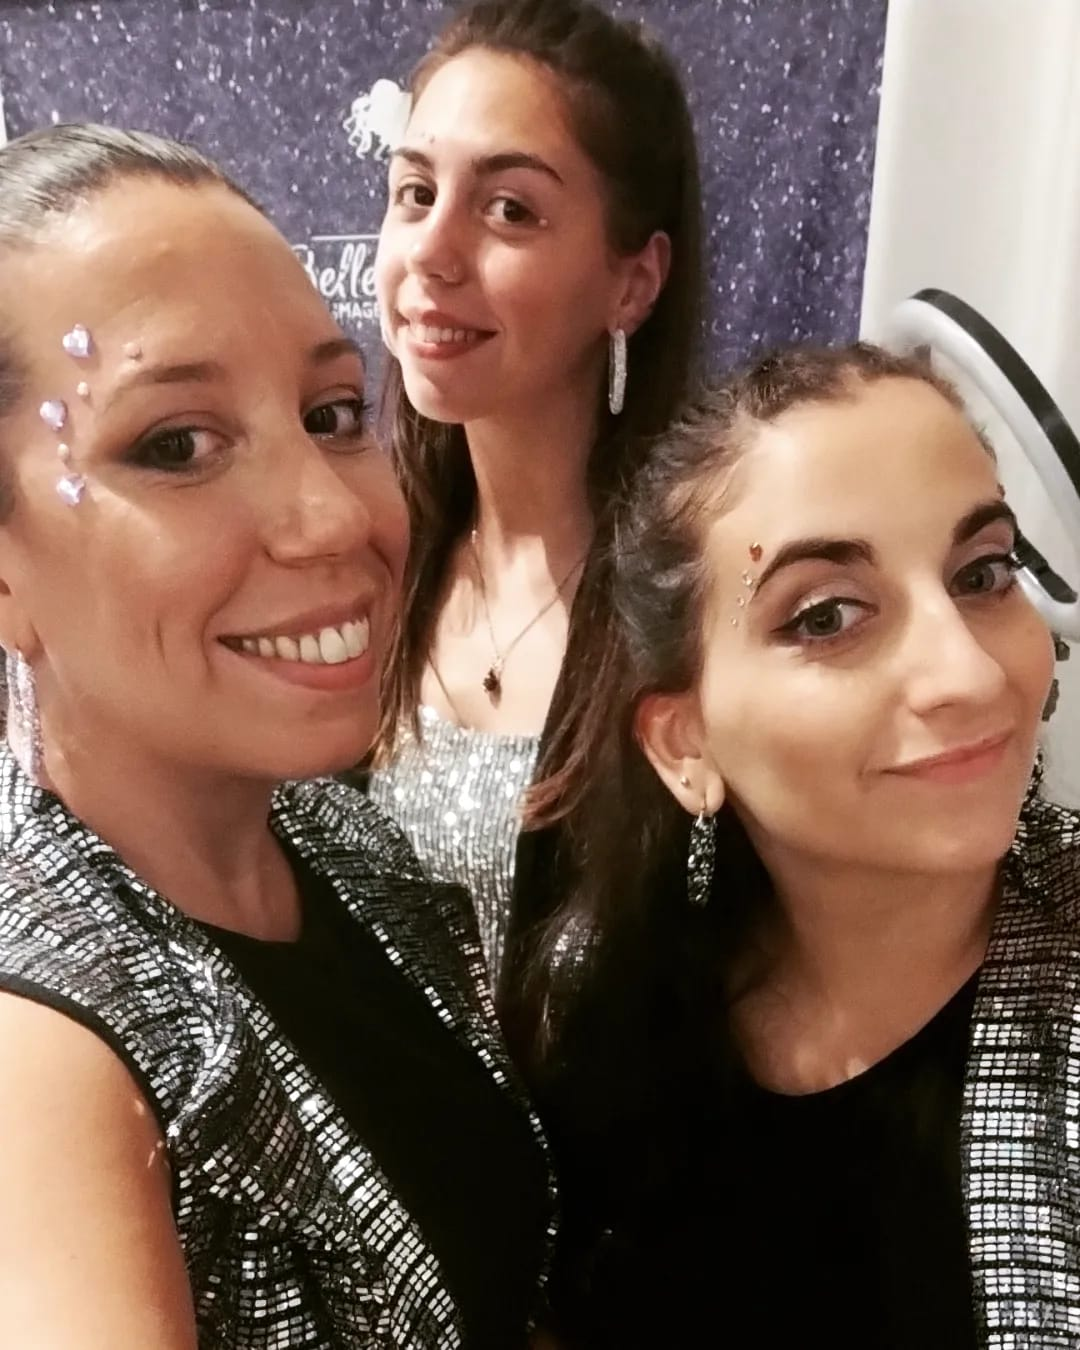
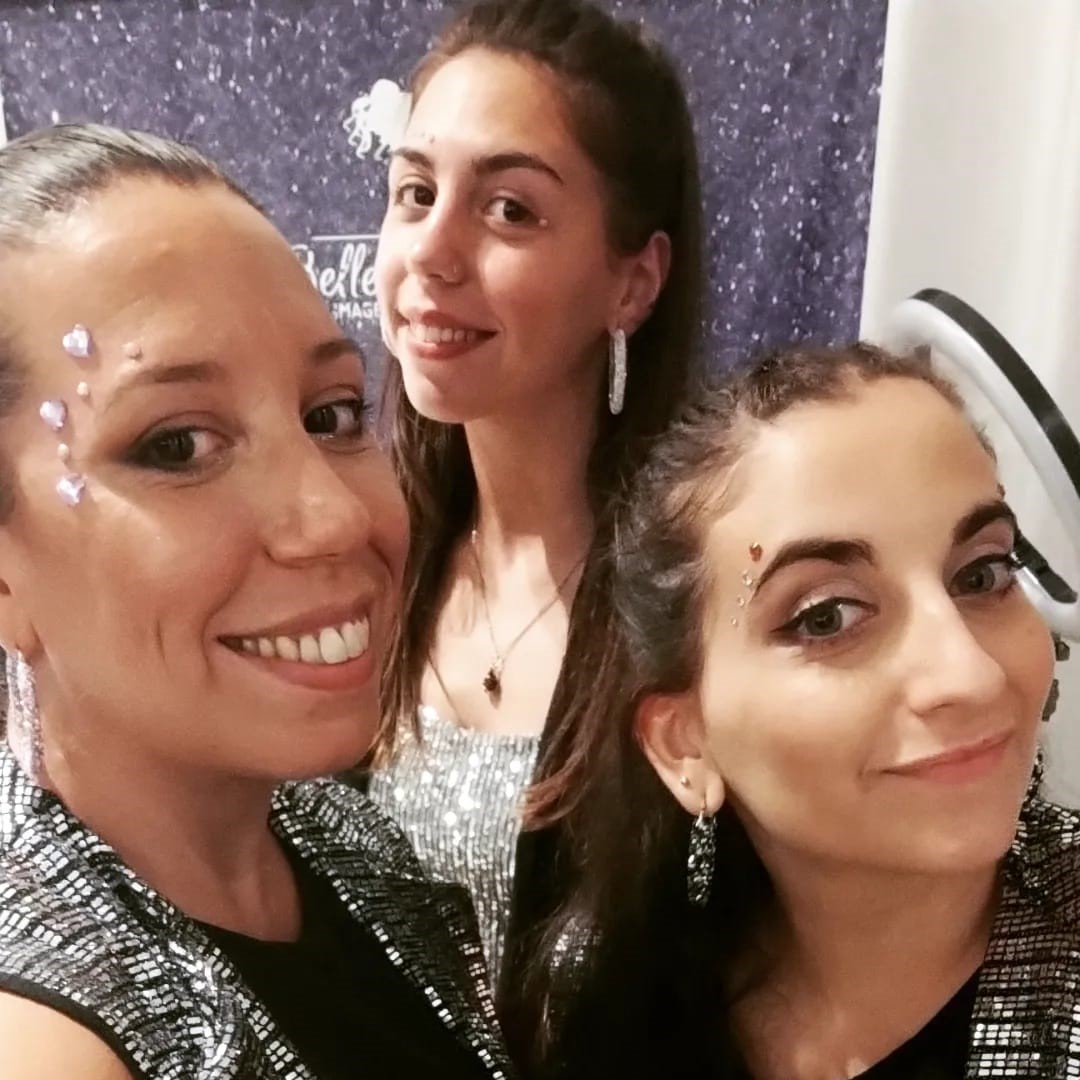
cambio de forma en la imagen y en el fondo del texto en .nosotras

diff --git a/css/main.css b/css/main.css
@@ -6,6 +6,9 @@
     background-image: url(../imagenes/brillo.jpg);
     background-size: cover;
 }
+.fondo2 {
+    background-color: rgb(187, 64, 236);
+}
 .titulo {
     text-align: center;
     font-size: 100px;
@@ -63,6 +66,10 @@ aside:hover {
         width: 50px;
         height: 50px;
 }
+.radius100 {
+        border-radius: 100px;
+}
+
     
 .centrar {
         text-align: center;
@@ -71,9 +78,8 @@ aside:hover {
         padding: 40px;
 }
 .padding2 {
-        padding: 10px;
-        
-}
+        padding: 20px;
+        }
 .margin {
         margin: 40px;
 }
@@ -92,7 +98,7 @@ footer {
 
 .flex {
         
-        margin: 20px 10px;
+        margin: 20px 25px;
         display: flex;
         flex-direction: row;
         justify-content: space-around;
@@ -126,15 +132,17 @@ footer {
         padding: 10px;
         
 }
-.nosotras {
-        width: 400px;
-
-
+.width600 {
+        width: 600px;
 }
+.width100 {
+        width: 100%;
+}
+
 div img{
         border-radius: 10px;
-        width: 100%;
-        height: auto;
+        width: 150px;
+        height: 134px;
 
 }
 .grid-container { display: grid;
@@ -146,17 +154,20 @@ video {
         max-width: 100%;
         max-height: 100%;
 }
+
 @media (max-width: 769px) {
         .flex{
                 flex-direction: column;
+                align-items: center;
+                width: 100%;
+                margin: 5px 5px;
         }
-
-}
-@media (max-width: 769px) {
         .titulomedia{
                 font-size: 60px;
         }
+
 }
+
 @media (max-width: 375px) {
         .titulomedia{
                 font-size: 40px;

diff --git a/paginas/nosotras.html b/paginas/nosotras.html
@@ -36,14 +36,16 @@
               </ul>
             </div>
         </div>
-      </nav>
-    <section class="centrar margin">
-        <img src="../imagenes/nosotras2.jpeg"  alt="" width="400" height="500">
-    </section>
+    </nav>
+    <main class="flex">
+      <section>
+        <img class="radius100 width" src="../imagenes/nosotras2.jpeg"  alt="" width="360" height="360">
+      </section>
  
-    <main class="nosotras centrar">
-        <h3>Te contamos un poco de Nosotras.</h3>
+      <div class="fondo2 width600 radius50 radius100 padding2">
+        <h3 class="font">Te contamos un poco de Nosotras.</h3>
         <p>Soy Romina de @Belleza_latina_imagen y junto a Celeste y Agustina creamos @a.brillar_mi_amor, un stand de glitter en el cual te ofrecemos variedad de brillo de varios colores, gemas, tatuajes y más productos para que tu evento Brille mucho más. </p>
+      </div>
     </main>
     <footer>
         <p>No te olvides de visitar nuestras Redes Sociales.</p>
